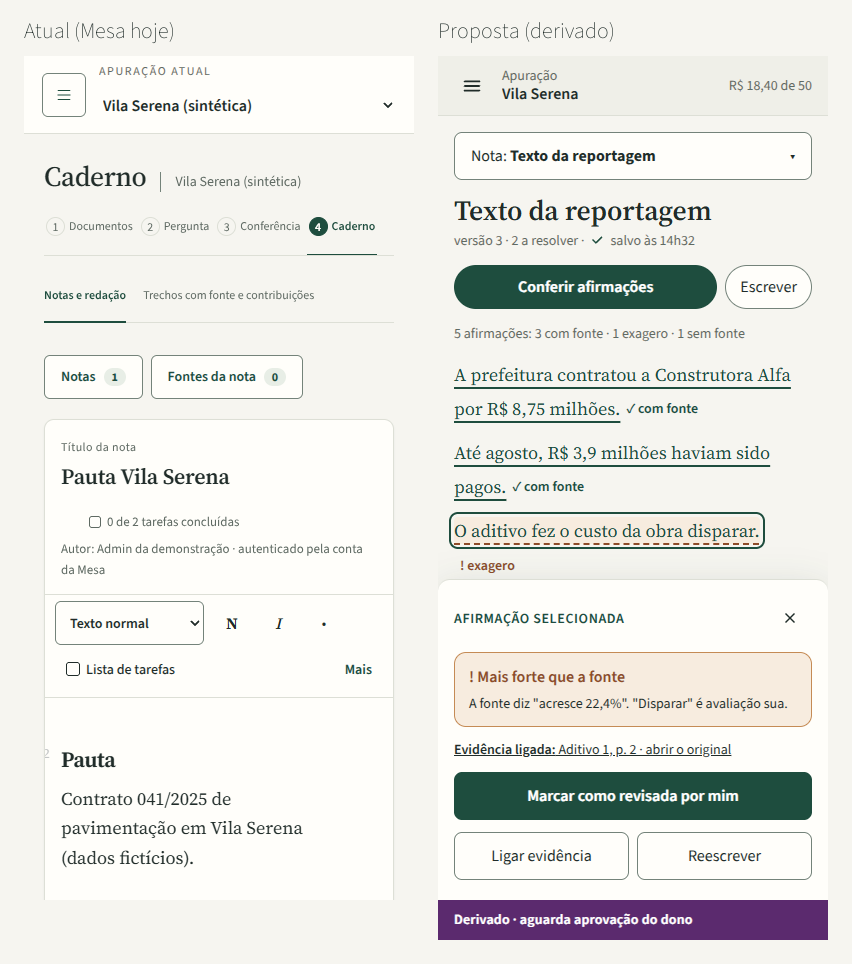
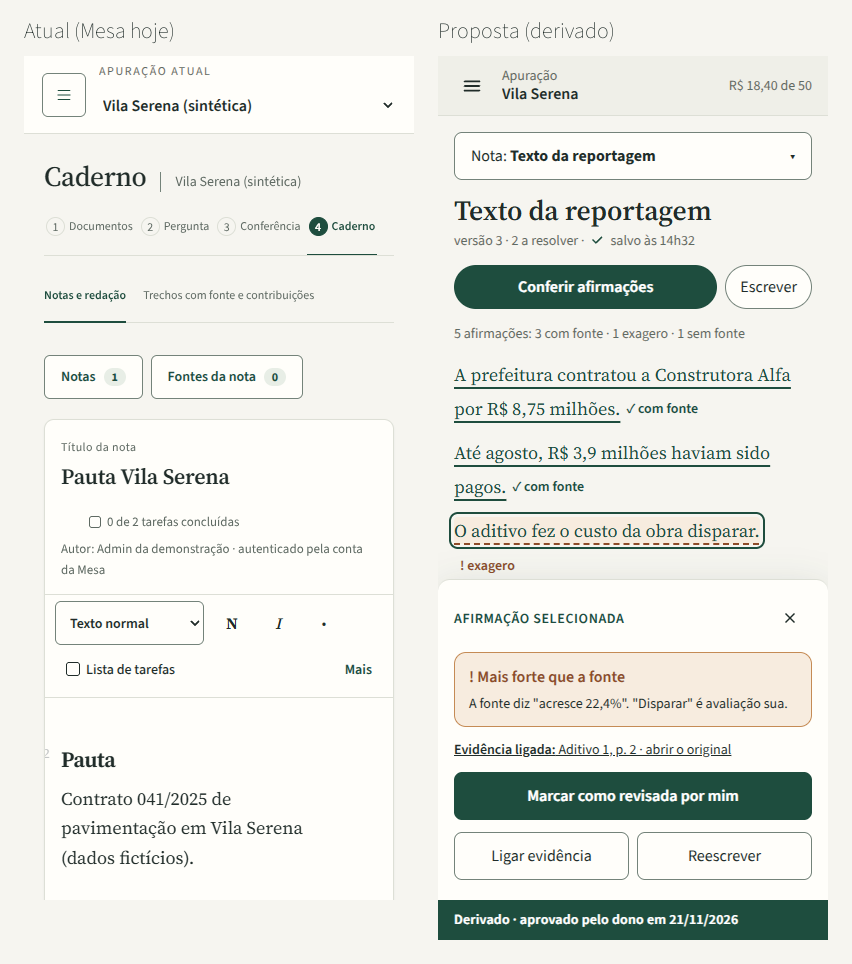
docs: marca a proposta do caderno como aprovada pelo dono em 21/11/2026
Faixa das pranchas, comparativos e LEIA-ME do caderno atualizados; P14.1 e P14.5 respondidas como desenhadas. O gerador do caderno deixa de gerar a versão antiga das hipóteses, que passa ao gerador dos quadros.

Changed region(s): [[0.4883, 0.9336, 0.9765, 0.9959]]

diff --git a/docs/design/aprovacao/ferramentas/fonte/caderno-proposta-claro-390.html b/docs/design/aprovacao/ferramentas/fonte/caderno-proposta-claro-390.html
@@ -21,4 +21,4 @@
 <div class="aviso" style="display:flex;flex-direction:column;gap:4px;font-size:16px"><span class="b" style="color:var(--theme-warning)">! Mais forte que a fonte</span><span class="p14">A fonte diz "acresce 22,4%". "Disparar" é avaliação sua.</span></div>
 <a href="#" class="p14" style="color:var(--theme-text)"><span class="b">Evidência ligada:</span> Aditivo 1, p. 2 · abrir o original</a>
 <button type="button" class="bt bt-p bt-g bt-cheio">Marcar como revisada por mim</button>
-<div style="display:flex;gap:8px"><button type="button" class="bt bt-s bt-g" style="flex:1">Ligar evidência</button><button type="button" class="bt bt-s bt-g" style="flex:1">Reescrever</button></div></section></div><div class="faixa-derivado">Derivado · aguarda aprovação do dono</div></div></body></html>
+<div style="display:flex;gap:8px"><button type="button" class="bt bt-s bt-g" style="flex:1">Ligar evidência</button><button type="button" class="bt bt-s bt-g" style="flex:1">Reescrever</button></div></section></div><div class="faixa-derivado" style="background:#1e4d3e">Derivado · aprovado pelo dono em 21/11/2026</div></div></body></html>

diff --git a/docs/design/aprovacao/ferramentas/fonte/caderno-proposta-escuro-390.html b/docs/design/aprovacao/ferramentas/fonte/caderno-proposta-escuro-390.html
@@ -21,4 +21,4 @@
 <div class="aviso" style="display:flex;flex-direction:column;gap:4px;font-size:16px"><span class="b" style="color:var(--theme-warning)">! Mais forte que a fonte</span><span class="p14">A fonte diz "acresce 22,4%". "Disparar" é avaliação sua.</span></div>
 <a href="#" class="p14" style="color:var(--theme-text)"><span class="b">Evidência ligada:</span> Aditivo 1, p. 2 · abrir o original</a>
 <button type="button" class="bt bt-p bt-g bt-cheio">Marcar como revisada por mim</button>
-<div style="display:flex;gap:8px"><button type="button" class="bt bt-s bt-g" style="flex:1">Ligar evidência</button><button type="button" class="bt bt-s bt-g" style="flex:1">Reescrever</button></div></section></div><div class="faixa-derivado">Derivado · aguarda aprovação do dono</div></div></body></html>
+<div style="display:flex;gap:8px"><button type="button" class="bt bt-s bt-g" style="flex:1">Ligar evidência</button><button type="button" class="bt bt-s bt-g" style="flex:1">Reescrever</button></div></section></div><div class="faixa-derivado" style="background:#1e4d3e">Derivado · aprovado pelo dono em 21/11/2026</div></div></body></html>

diff --git a/docs/design/aprovacao/ferramentas/fonte/caderno-proposta-claro-1440.html b/docs/design/aprovacao/ferramentas/fonte/caderno-proposta-claro-1440.html
@@ -38,4 +38,4 @@
 <div style="display:flex;flex-direction:column;gap:6px"><span class="p14 b sec">Evidência ligada</span>
 <a href="#" style="display:flex;flex-direction:column;gap:2px;padding:12px 0;border-top:1px solid var(--theme-line);border-bottom:1px solid var(--theme-line);color:var(--theme-text);text-decoration:none"><span class="serifa">“O primeiro termo aditivo acresce R$ 1.960.000,00 ao valor do contrato.”</span><span class="p14 sec">Aditivo 1, p. 2 · abrir o original</span></a></div>
 <div style="margin-top:auto;display:flex;flex-direction:column;gap:10px"><button type="button" class="bt bt-s bt-cheio">Ligar outra evidência</button><button type="button" class="bt bt-s bt-cheio">Reescrever a frase</button><button type="button" class="bt bt-p bt-cheio">Marcar como revisada por mim</button></div></aside>
-</main></div></div><div class="faixa-derivado">Derivado · aguarda aprovação do dono</div></div></body></html>
+</main></div></div><div class="faixa-derivado" style="background:#1e4d3e">Derivado · aprovado pelo dono em 21/11/2026</div></div></body></html>

diff --git a/docs/design/aprovacao/ferramentas/fonte/caderno-proposta-escuro-1440.html b/docs/design/aprovacao/ferramentas/fonte/caderno-proposta-escuro-1440.html
@@ -38,4 +38,4 @@
 <div style="display:flex;flex-direction:column;gap:6px"><span class="p14 b sec">Evidência ligada</span>
 <a href="#" style="display:flex;flex-direction:column;gap:2px;padding:12px 0;border-top:1px solid var(--theme-line);border-bottom:1px solid var(--theme-line);color:var(--theme-text);text-decoration:none"><span class="serifa">“O primeiro termo aditivo acresce R$ 1.960.000,00 ao valor do contrato.”</span><span class="p14 sec">Aditivo 1, p. 2 · abrir o original</span></a></div>
 <div style="margin-top:auto;display:flex;flex-direction:column;gap:10px"><button type="button" class="bt bt-s bt-cheio">Ligar outra evidência</button><button type="button" class="bt bt-s bt-cheio">Reescrever a frase</button><button type="button" class="bt bt-p bt-cheio">Marcar como revisada por mim</button></div></aside>
-</main></div></div><div class="faixa-derivado">Derivado · aguarda aprovação do dono</div></div></body></html>
+</main></div></div><div class="faixa-derivado" style="background:#1e4d3e">Derivado · aprovado pelo dono em 21/11/2026</div></div></body></html>

diff --git a/docs/design/aprovacao/caderno/LEIA-ME.md b/docs/design/aprovacao/caderno/LEIA-ME.md
@@ -1,6 +1,6 @@
-# Caderno: o que o dono decide
+# Caderno: o que o dono decidiu
 
-**Proposta: derivado, aguarda aprovação do dono.** Segue o wireframe W04 ("Caderno e conferência do texto") na linguagem do canvas. Não há tela final do caderno no canvas.
+**Proposta: derivado, aprovado pelo dono em 21/11/2026** (commit `adce9fc`). Aprovadas como desenhadas: a tela em três colunas do W04 com a barra lateral do canvas (P14.1) e, no celular, o seletor de nota no topo e o painel no pé (P14.5). Segue o wireframe W04 ("Caderno e conferência do texto") na linguagem do canvas. Não há tela final do caderno no canvas.
 
 | Arquivo | O que é |
 |---|---|
@@ -16,6 +16,8 @@
 - No celular: a nota se escolhe num seletor no topo, e a afirmação selecionada abre num painel no pé da tela, com as três ações.
 
 ## Decisões
+
+Respondidas: 1 e 5, como desenhadas. Em aberto, com desenho novo a caminho: 2, 3 e 4.
 
 1. **Aprova a tela em três colunas do W04**, com a barra lateral do canvas?
 2. **"Trechos com fonte e contribuições"** não aparece no W04. Os trechos passam a entrar só por "Ligar outra evidência", ou a aba continua em outro lugar?

diff --git a/docs/design/aprovacao/LEIA-ME.md b/docs/design/aprovacao/LEIA-ME.md
@@ -9,7 +9,7 @@ Pedido do dono em 21/11/2026: ver no desenho novo as áreas da Mesa que não tê
 | Visão geral (`inicio`) | sim | escuro, 1024 e 390 (`../novas/`) | — | — |
 | Conferir achados (`achados`) | sim | escuro, 1024 e 390 (`../novas/`) | — | — |
 | Perguntar à IA (`codex`) | só celular, escuro | — | W03 | `perguntar/` (só atual) |
-| Caderno (`apuracao`) | não | **proposta** | W04 | `caderno/` |
+| Caderno (`apuracao`) | não | **proposta aprovada pelo dono em 21/11/2026** | W04 | `caderno/` |
 | Quadros (`quadros`): mapa de relações e linha do tempo | sim | escuro e 390 a fazer | — | `quadros/` |
 | Quadros: hipóteses | não | proposta a fazer | W05 | `quadros/` |
 | Quadros: tabelas | não | proposta a fazer | W06 | `quadros/` |
